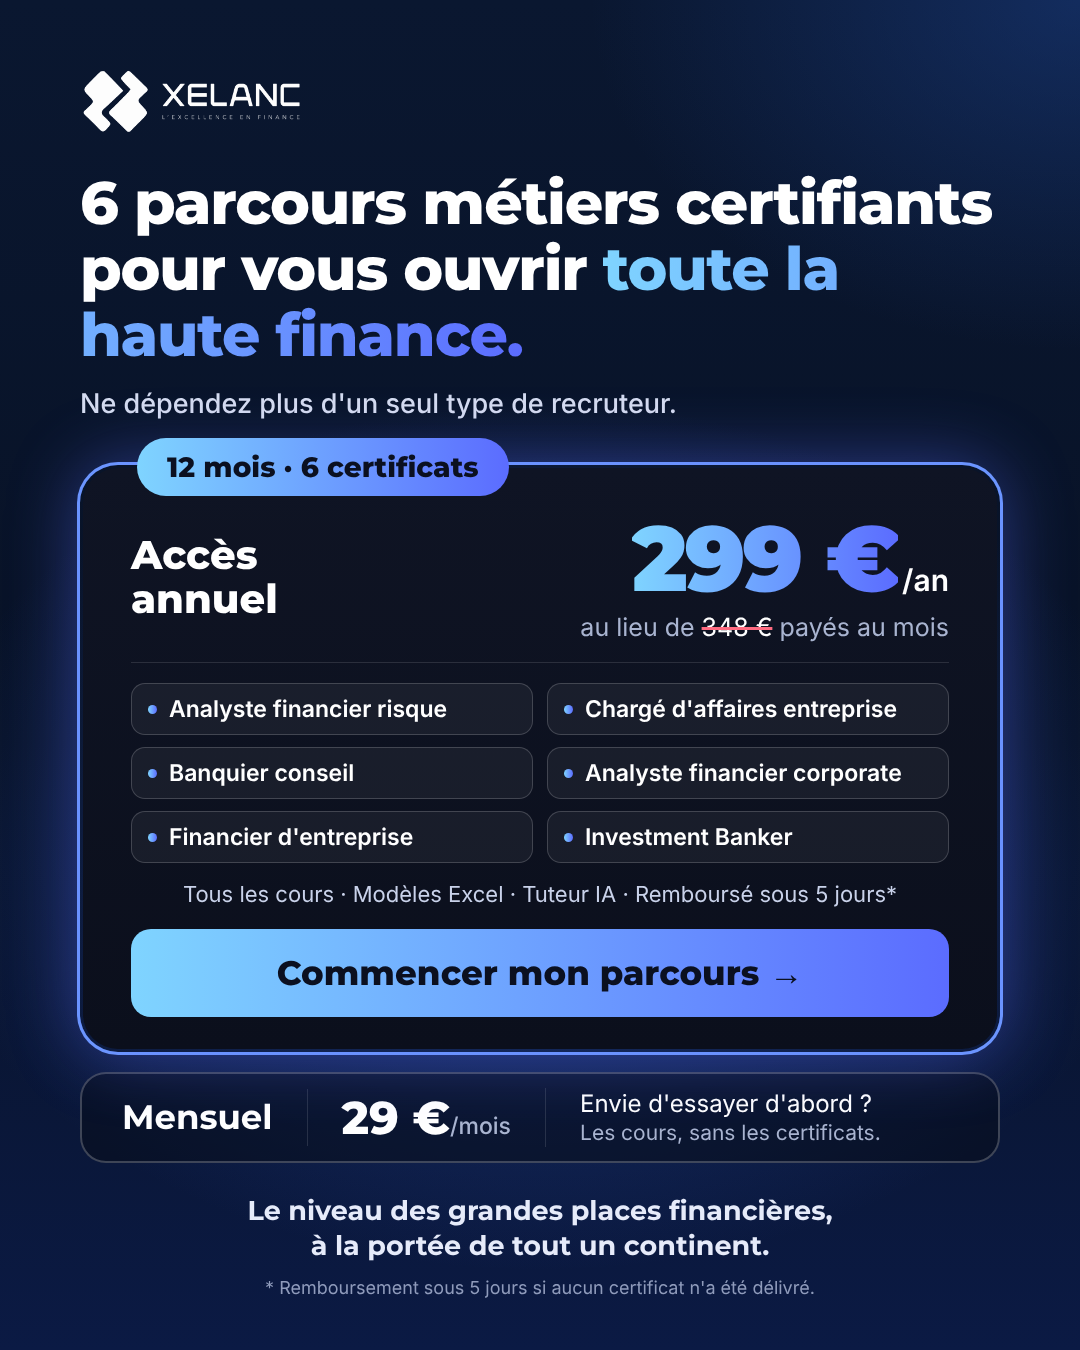
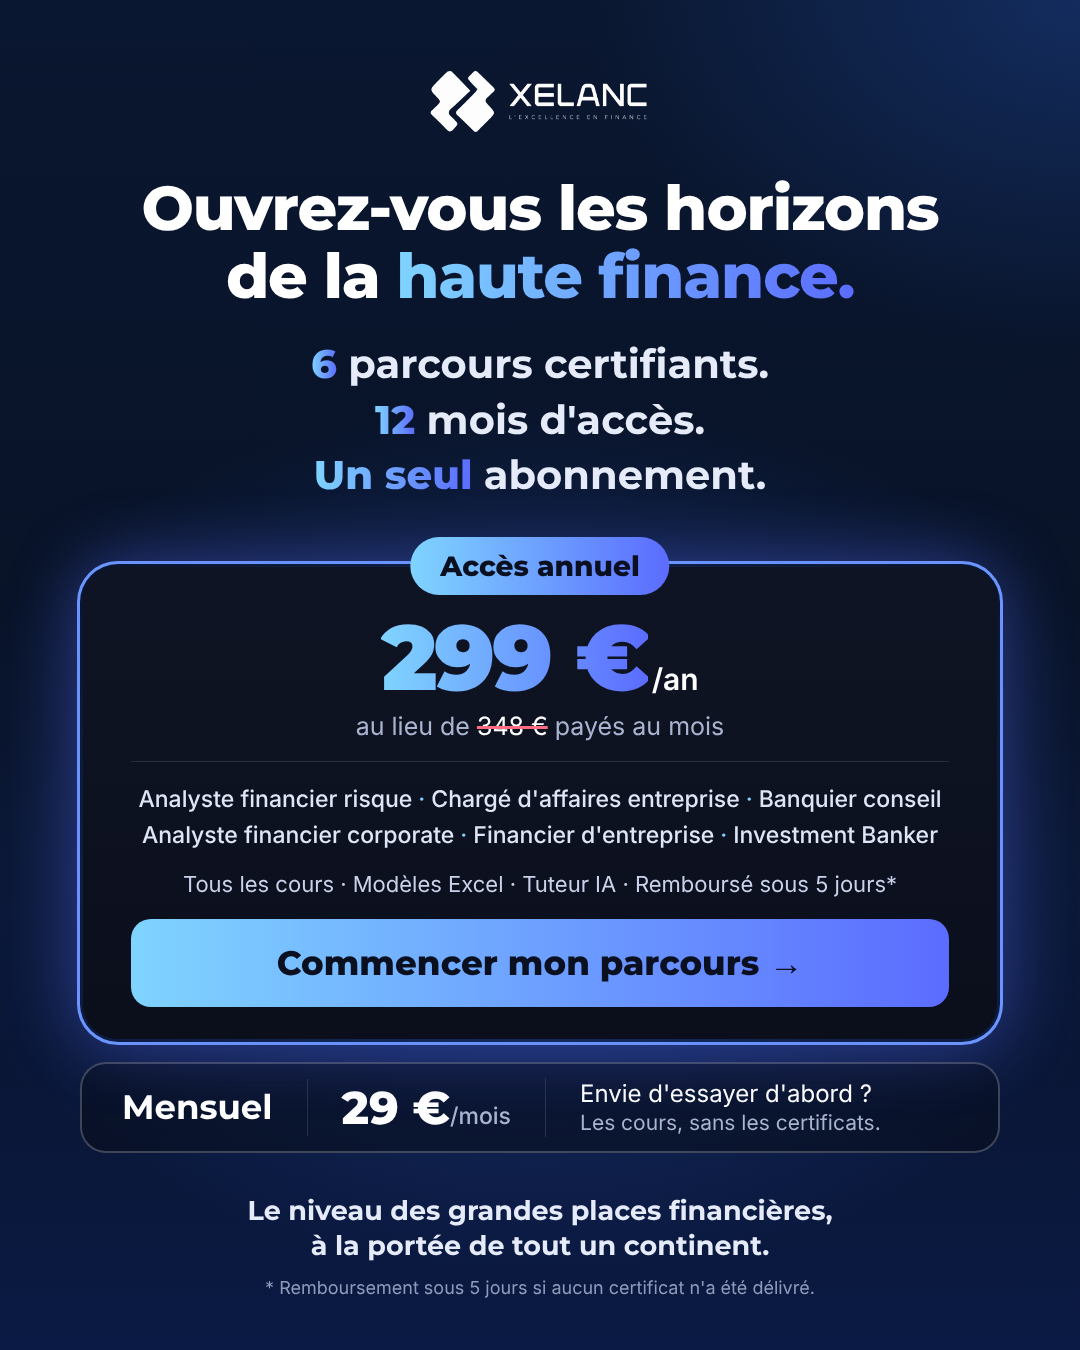
Passe le visuel maître en version centrée avec le nouveau titre
Claude-Session: https://claude.ai/code/session_01LXovPUf4KLwN8kSMXa7eXm

diff --git a/excellence/ads/retargeting/src/v1-maitre.html b/excellence/ads/retargeting/src/v1-maitre.html
@@ -1,28 +1,24 @@
 <!doctype html>
 <html lang="fr"><head><meta charset="utf-8"><link rel="stylesheet" href="style.css"></head>
-<body class="compact">
+<body class="compact center">
   <img class="logo" src="logo.png" alt="Xelanc">
-  <h1 style="margin-top:30px">6 parcours métiers certifiants pour vous ouvrir <span class="grad">toute la haute finance.</span></h1>
-  <p class="sub">Ne dépendez plus d'un seul type de recruteur.</p>
+  <h1>Ouvrez-vous les horizons<br>de la <span class="grad">haute finance.</span></h1>
+  <div class="lines">
+    <div><b class="grad">6</b> parcours certifiants.</div>
+    <div><b class="grad">12</b> mois d'accès.</div>
+    <div><b class="grad">Un seul</b> abonnement.</div>
+  </div>
 
   <div class="card">
-    <div class="pill">12 mois · 6 certificats</div>
+    <div class="pill">Accès annuel</div>
     <div class="offer">
-      <div class="name">Accès<br>annuel</div>
       <div class="price">
         <span class="big grad">299&nbsp;€</span><span class="per">/an</span>
         <div class="instead">au lieu de <s>348&nbsp;€</s> payés au mois</div>
       </div>
     </div>
     <div class="rule"></div>
-    <div class="jobs">
-      <div class="job">Analyste financier risque</div>
-      <div class="job">Chargé d'affaires entreprise</div>
-      <div class="job">Banquier conseil</div>
-      <div class="job">Analyste financier corporate</div>
-      <div class="job">Financier d'entreprise</div>
-      <div class="job">Investment Banker</div>
-    </div>
+    <p class="metiers">Analyste financier risque<em>·</em>Chargé d'affaires entreprise<em>·</em>Banquier conseil<br>Analyste financier corporate<em>·</em>Financier d'entreprise<em>·</em>Investment Banker</p>
     <p class="incl">Tous les cours · Modèles Excel · Tuteur IA · Remboursé sous 5 jours*</p>
     <div class="cta">Commencer mon parcours →</div>
   </div>

diff --git a/excellence/ads/retargeting/src/style.css b/excellence/ads/retargeting/src/style.css
@@ -191,3 +191,17 @@ body.compact { padding-top: 60px; padding-bottom: 52px; }
 .compact .card { margin-top: 44px; padding-top: 44px; }
 .compact .rule { margin: 20px 0 20px; }
 .compact .monthly { margin-top: 20px; padding: 14px 40px; }
+
+/* v3 : mise en page centrée */
+.center { text-align: center; }
+.center .logo { margin: 0 auto; }
+.center .pill { left: 50%; transform: translateX(-50%); white-space: nowrap; }
+.center h1 { font-size: 62px; margin-top: 34px; }
+.lines { margin-top: 26px; font-family: Montserrat, sans-serif; font-weight: 700; font-size: 40px; line-height: 1.38; color: #e6ebfa; }
+.lines b { font-weight: 800; }
+.center .price { text-align: center; }
+.center .offer { justify-content: center; }
+.metiers { font-size: 23px; line-height: 1.55; color: #dfe5f6; font-weight: 500; }
+.metiers em { font-style: normal; color: var(--g1); padding: 0 6px; }
+.center .monthly { text-align: left; }
+.center.compact .card { margin-top: 62px; }
